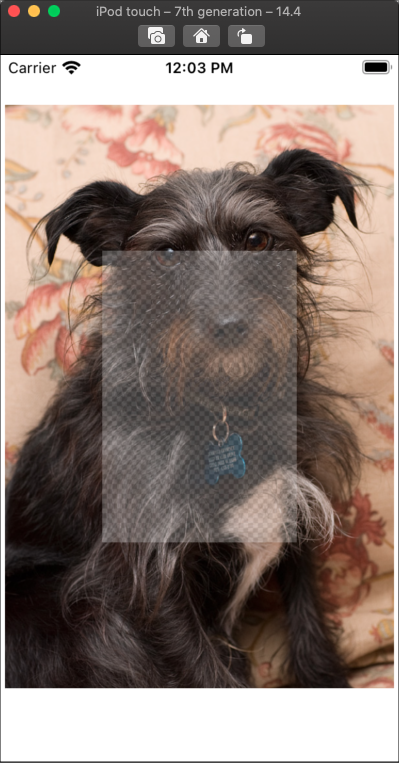
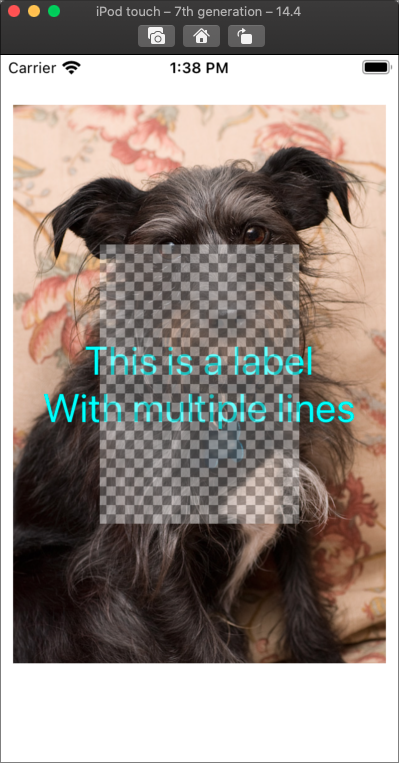
Refactored custom class to be a UIView, not a UIImageView, so it can contain and mask subviews.

diff --git a/MaskableImageView/MaskableView.swift b/MaskableImageView/MaskableView.swift
@@ -8,7 +8,7 @@
 import UIKit
 
 
-class MaskableImageView: UIImageView {
+class MaskableView: UIView {
 
     var maskLayer = CALayer()
 
@@ -26,7 +26,7 @@ class MaskableImageView: UIImageView {
             UIColor.black.setFill()
             ctx.fill(bounds, blendMode: .normal)
             let insetRect = bounds.insetBy(dx: bounds.width / 4, dy: bounds.height/4)
-            UIColor(red: 0, green: 0, blue: 0, alpha: 0.7).setFill()
+            UIColor(red: 0, green: 0, blue: 0, alpha: 0.5).setFill()
             ctx.fill(insetRect)
         }
         maskLayer.contents = image.cgImage
